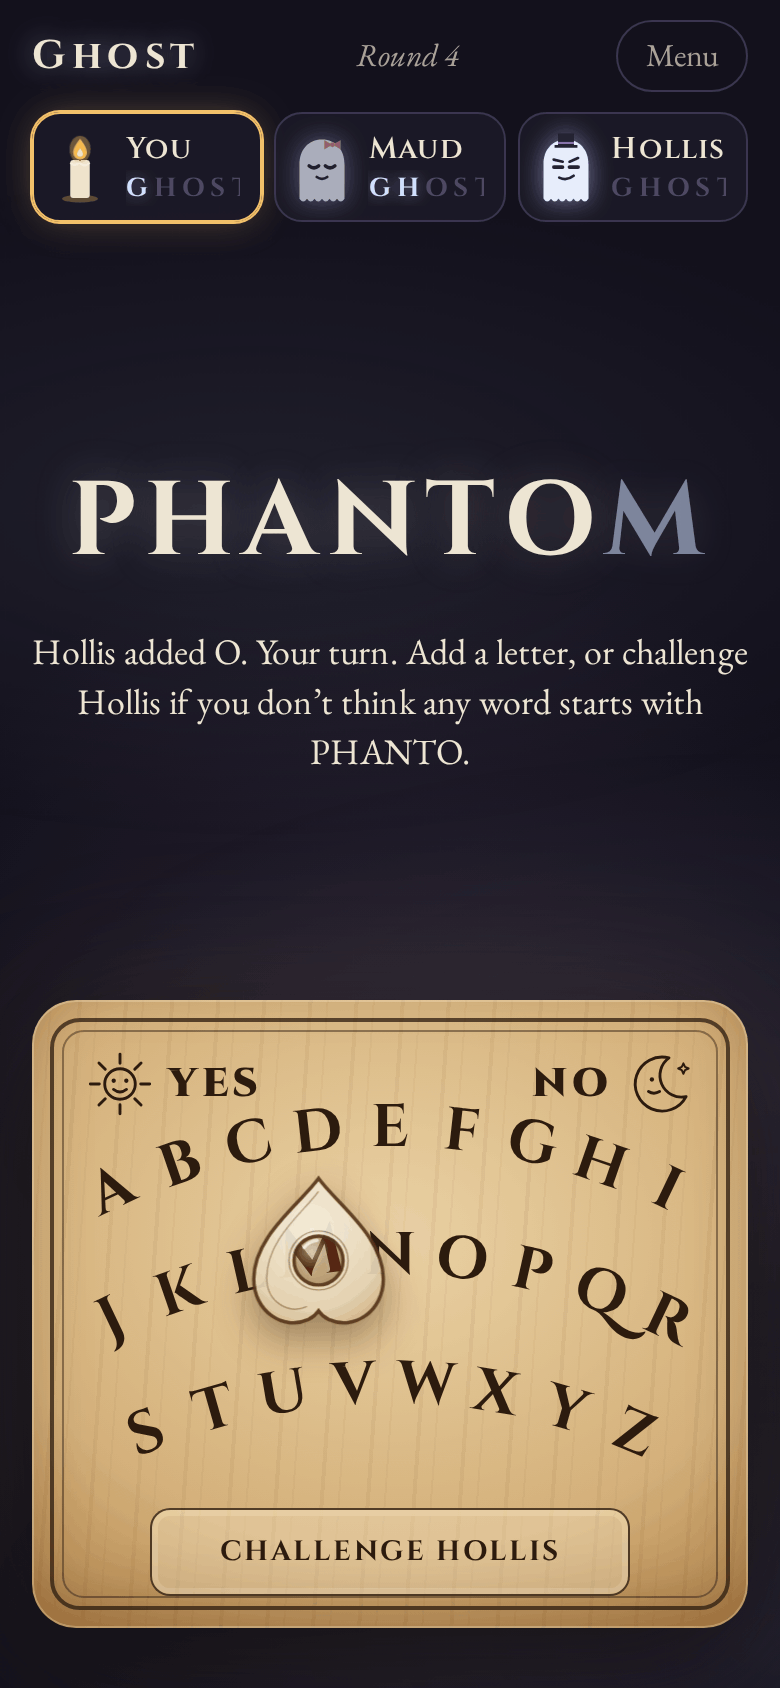
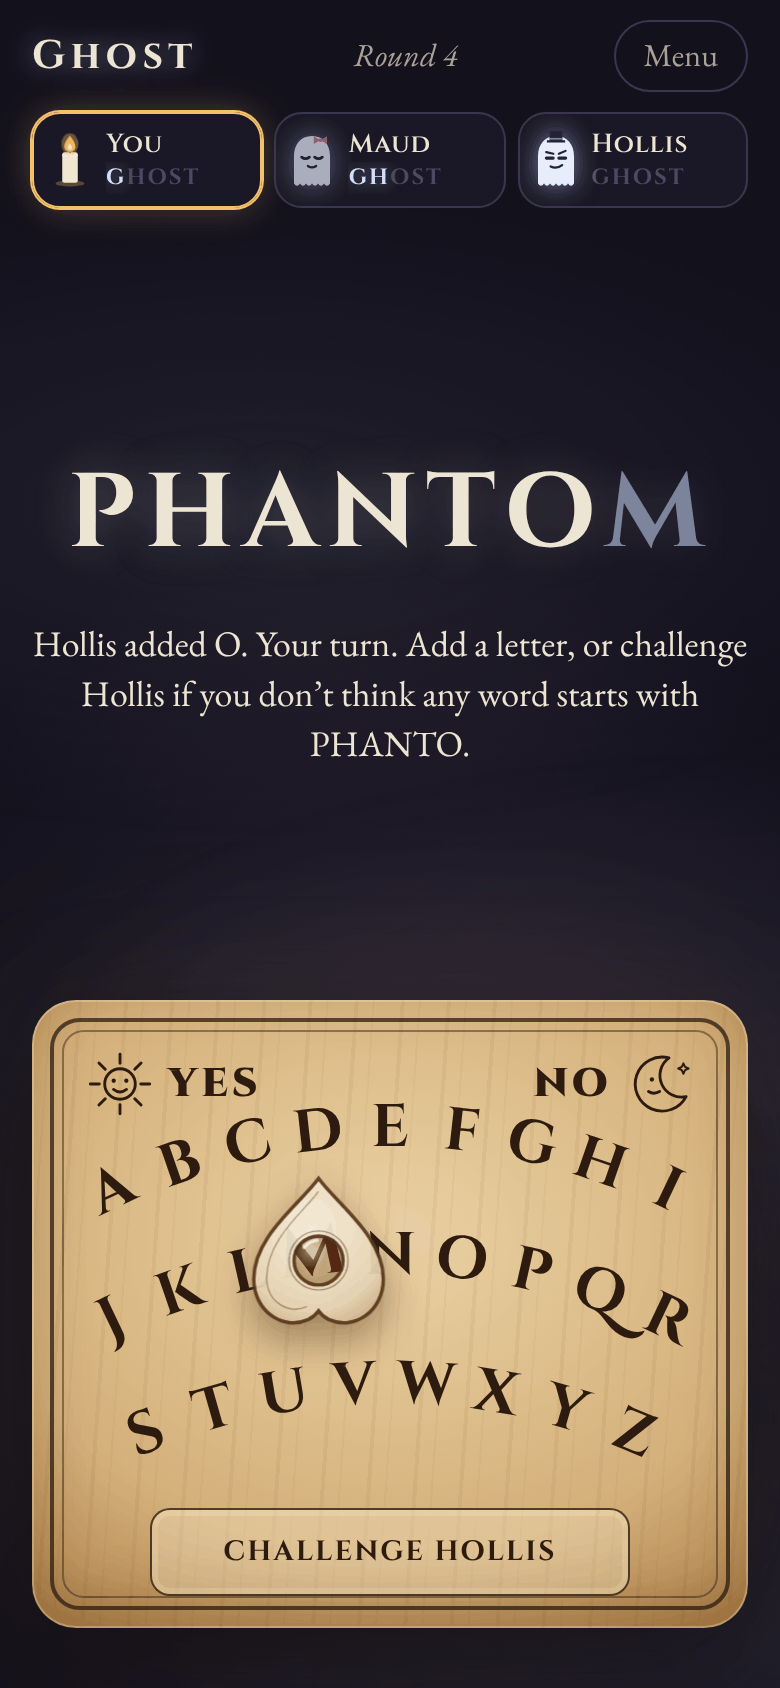
Fit all of GHOST on every player card
With three at the table on a phone, the full-size cards were too narrow for
the GHOST letters, so the T was cut in half at 390px and gone at 360px (the
README's phone screenshot showed it). With six on a laptop, all six squeezed
into one row and showed only GHOS. Three on a phone now use the compact cards
that five and six already use, and six on a laptop sit three to a row. Two,
four and five are unchanged. docs/phone-play.png is redrawn with three at the
table.

Claude-Session: https://claude.ai/code/session_01N3tHmrVtD9q2Zcak1ErX34

diff --git a/css/app.css b/css/app.css
@@ -329,7 +329,7 @@ main { position: relative; z-index: 1; }
 .rules p strong { color: var(--ink); }
 .rules .primary { margin-top: 8px; }
 
-/* Four or more players on a phone: smaller cards, two or three to a row. */
+/* Three or more players on a phone: smaller cards, two or three to a row, so GHOST fits on each. */
 @media (max-width: 719px) {
   .players.many .player { min-width: 0; flex-basis: calc(33.333% - 4px); grid-template-columns: 24px 1fr; column-gap: 6px; padding: 6px 8px 6px 6px; }
   .players.four .player { flex-basis: calc(50% - 3px); }
@@ -339,6 +339,7 @@ main { position: relative; z-index: 1; }
 }
 @media (min-width: 720px) {
   .player { min-width: 0; }
+  .players.six .player { flex-basis: calc(33.333% - 7px); } /* six don't fit in one row: three and three */
 }
 
 @media (min-width: 720px) {

diff --git a/js/app.js b/js/app.js
@@ -240,8 +240,9 @@ function render() {
 
 function renderPlayers() {
   const acting = s.phase === 'play' ? s.turn : s.phase === 'naming' ? s.challenge.of : -1;
-  $('players').classList.toggle('many', s.players.length >= 4);
+  $('players').classList.toggle('many', s.players.length >= 3);
   $('players').classList.toggle('four', s.players.length === 4);
+  $('players').classList.toggle('six', s.players.length === 6);
   $('players').replaceChildren(...s.players.map((p, i) => {
     const li = document.createElement('li');
     const out = p.letters >= R.GHOST.length;
